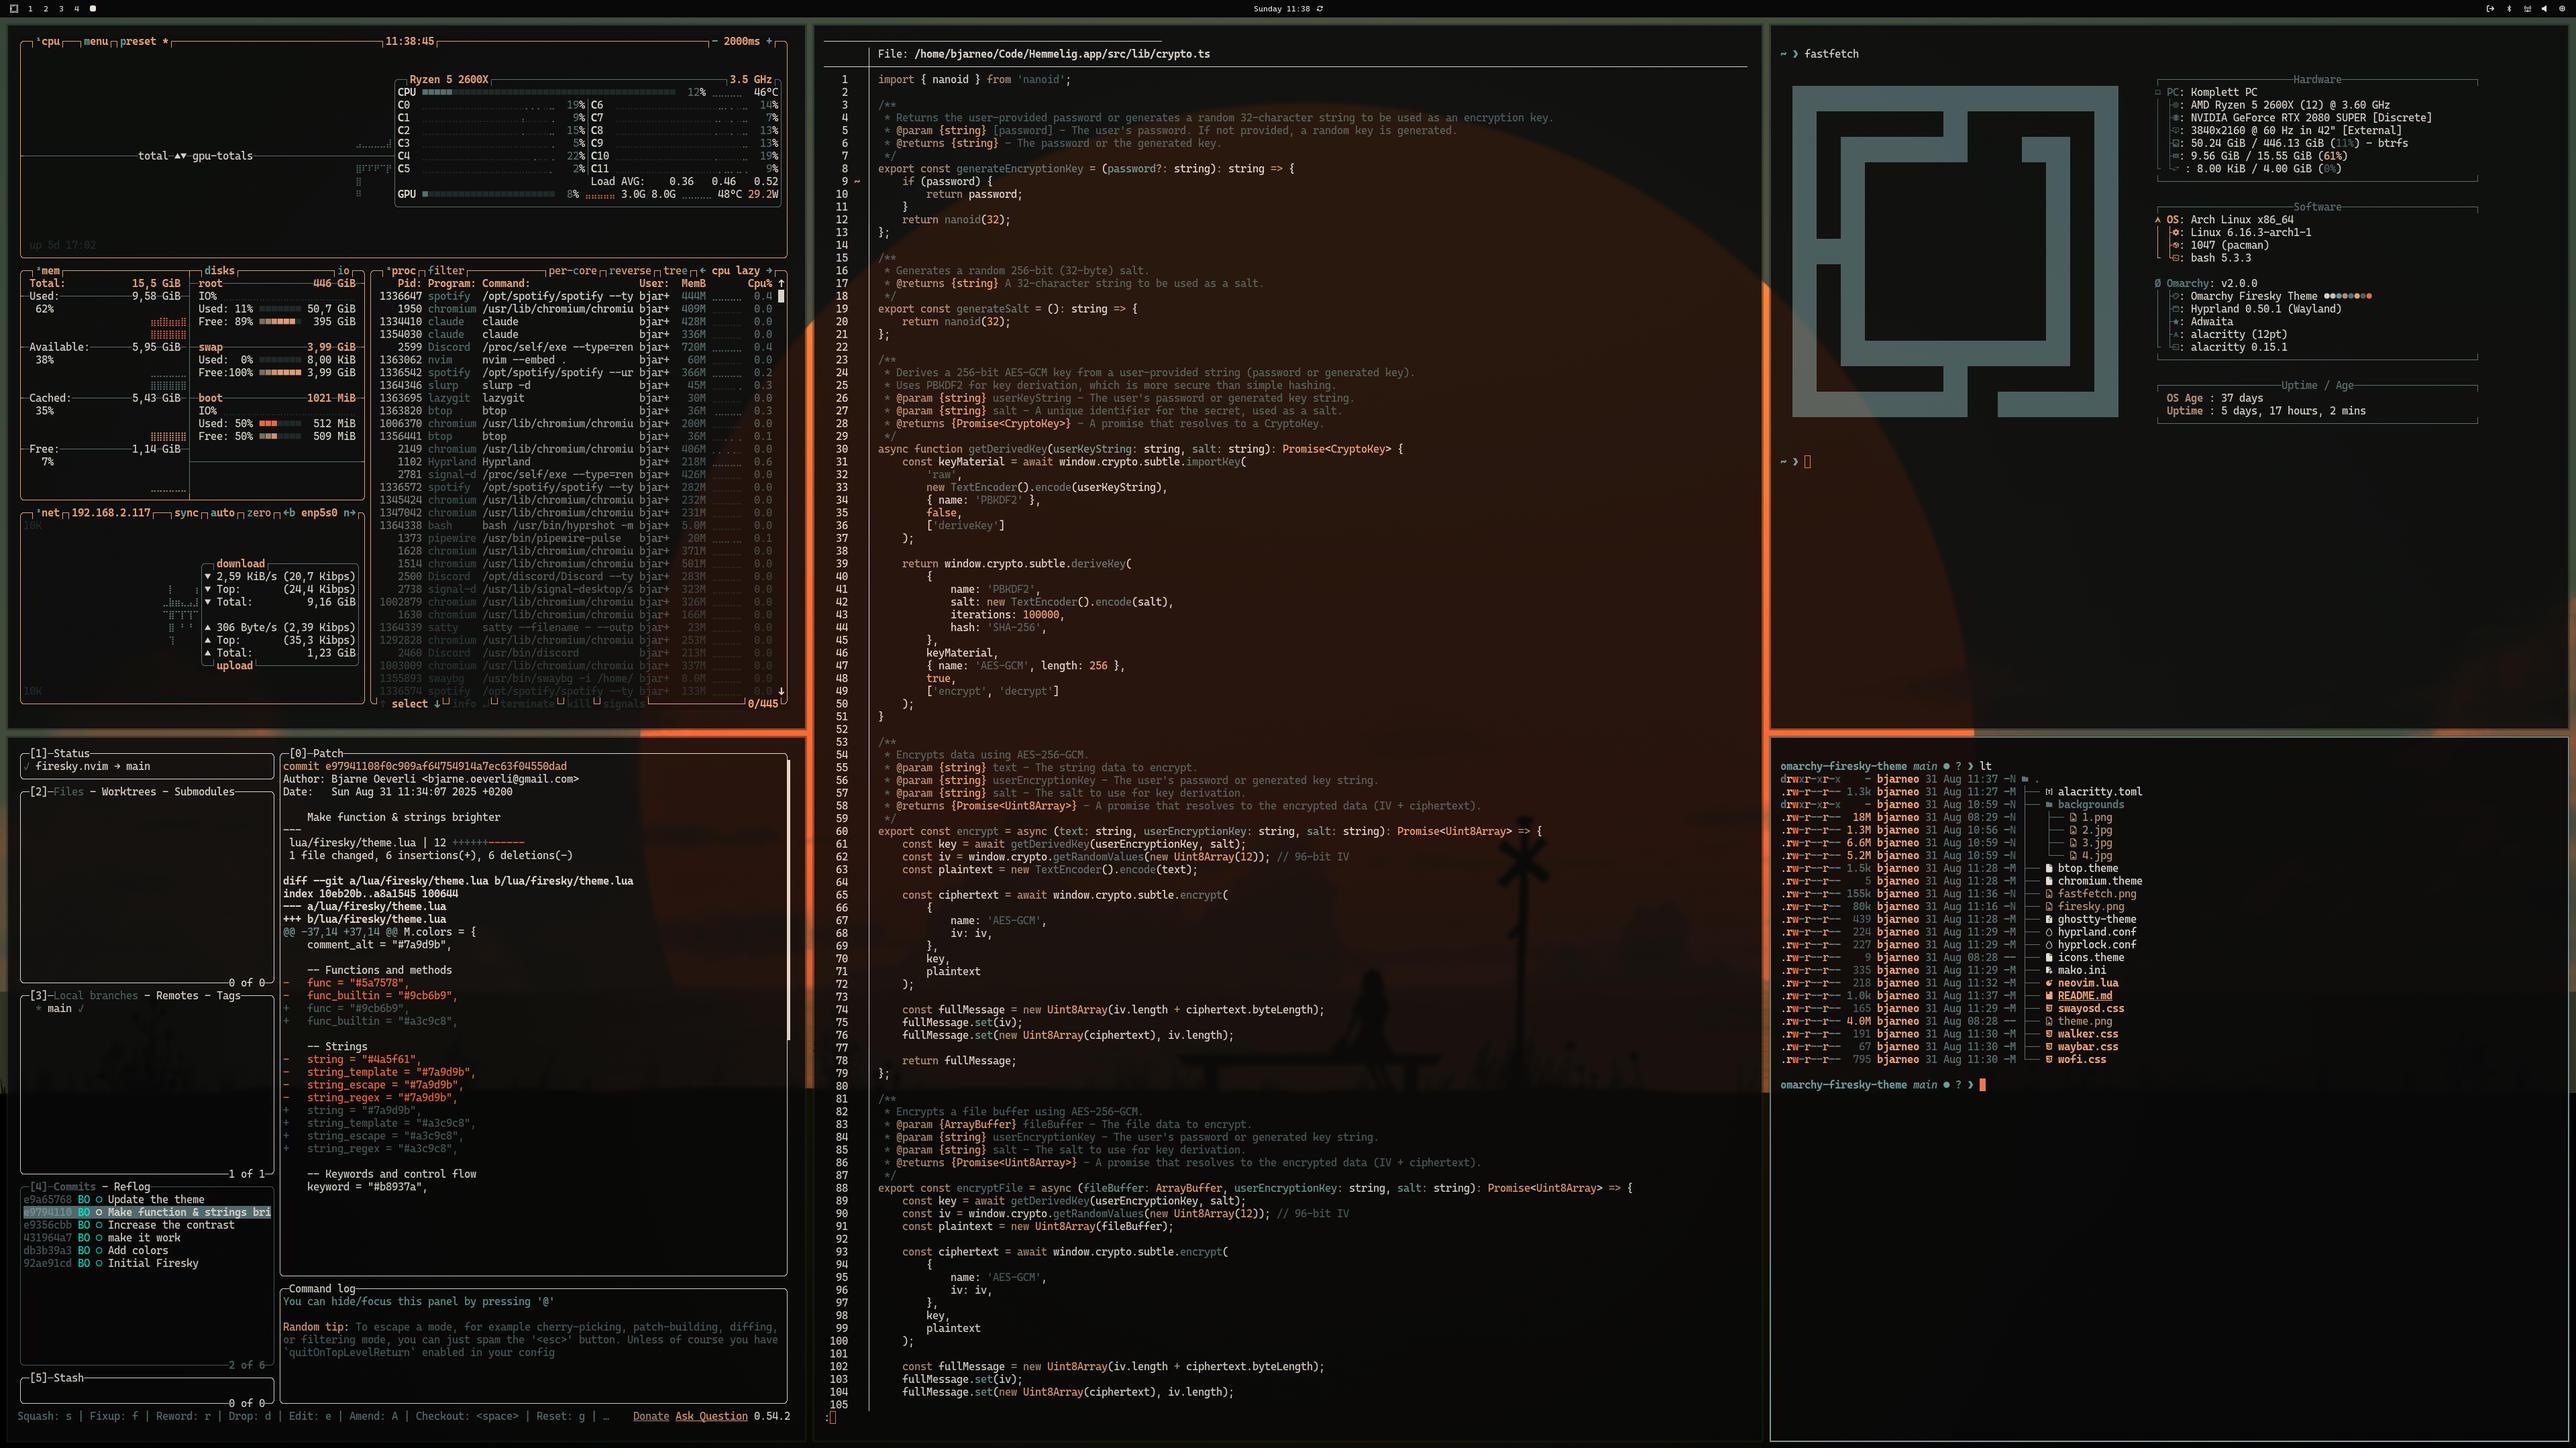
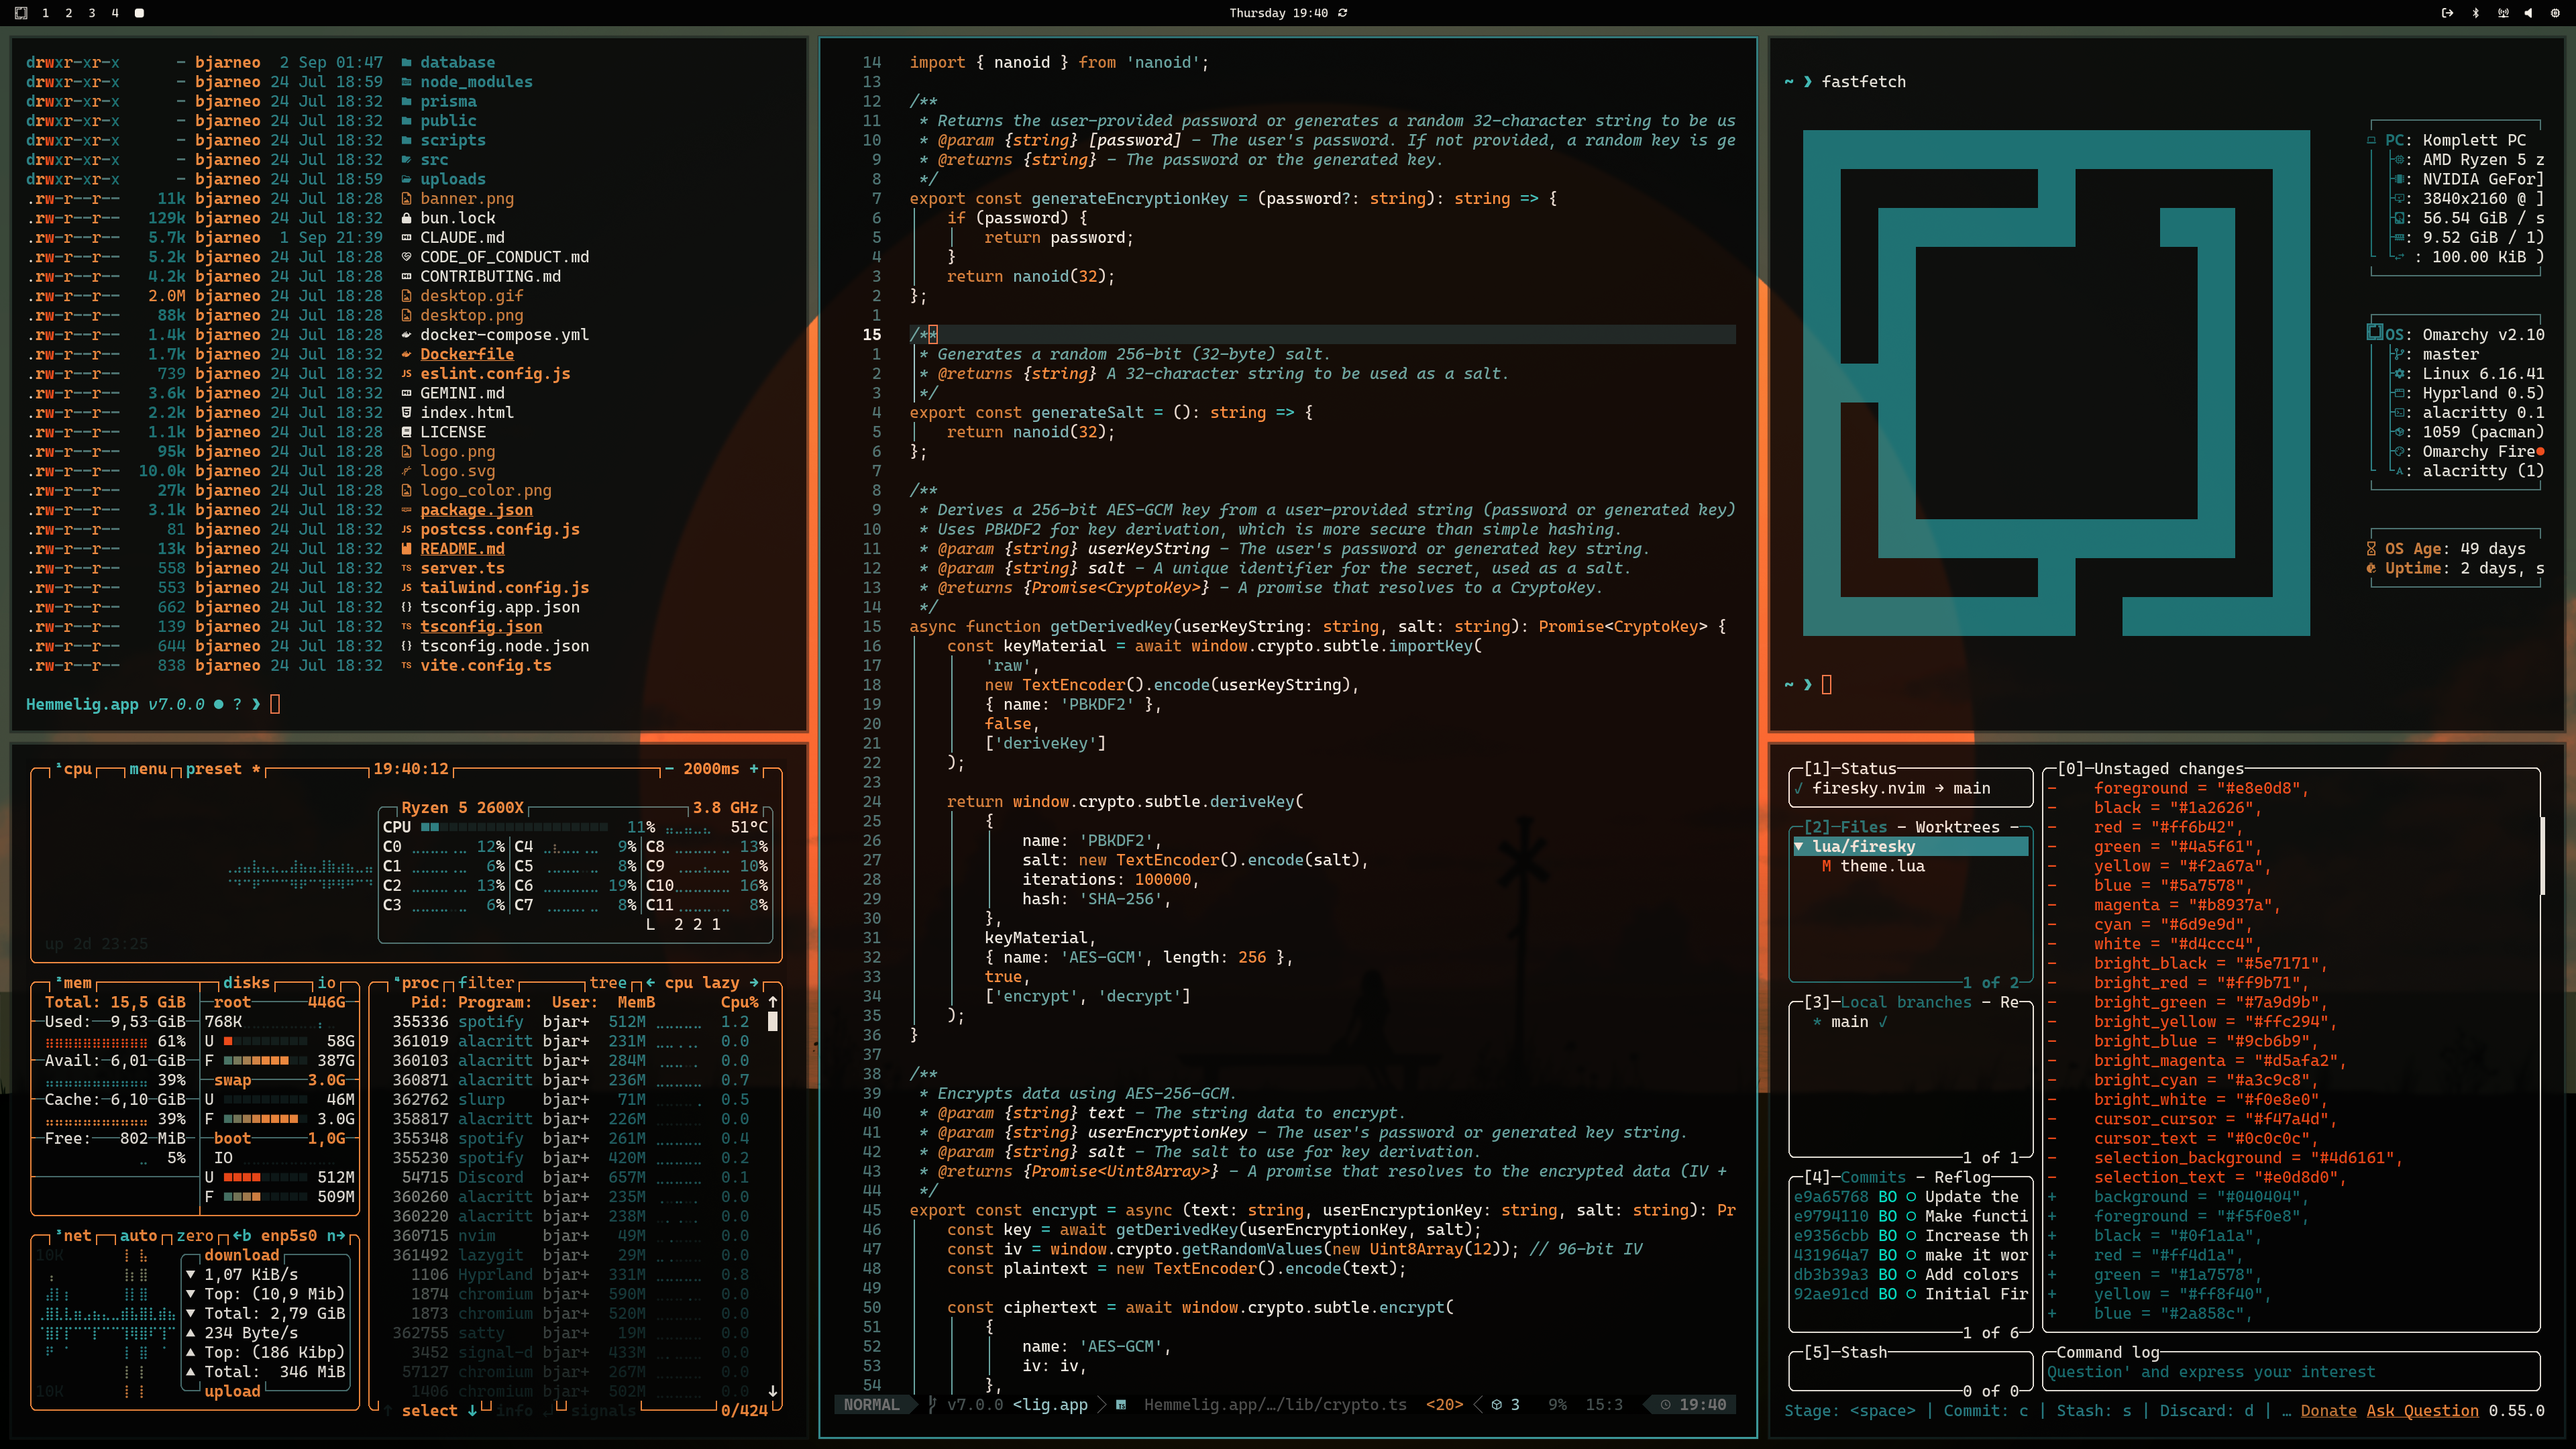
Use stronger contrast

Changed region(s): [[0.0, 0.0, 1.0, 1.0], [0.625, 0.962, 0.6875, 0.9931]]

diff --git a/vesktop/firesky.css b/vesktop/firesky.css
@@ -74,17 +74,17 @@ body {
 
     /* text colors */
     --text-0: var(--bg-4); /* text on colored elements */
-    --text-1: #f0e8e0; /* other normally white text */
-    --text-2: #e8e0d8; /* headings and important text */
-    --text-3: #d4ccc4; /* normal text */
-    --text-4: #e0d8d0; /* icon buttons and channels */
-    --text-5: #9cb6b9; /* muted channels/chats and timestamps */
+    --text-1: #fff8f0; /* other normally white text */
+    --text-2: #f5f0e8; /* headings and important text */
+    --text-3: #e8ddd5; /* normal text */
+    --text-4: #f5f0e8; /* icon buttons and channels */
+    --text-5: #52d9dd; /* muted channels/chats and timestamps */
 
     /* background and dark colors */
-    --bg-1: #5e7171; /* dark buttons when clicked */
-    --bg-2: #4d6161; /* dark buttons */
-    --bg-3: #1a2626; /* spacing, secondary elements */
-    --bg-4: #080808; /* main background color */
+    --bg-1: #4d7575; /* dark buttons when clicked */
+    --bg-2: #4d7575; /* dark buttons */
+    --bg-3: #0f1a1a; /* spacing, secondary elements */
+    --bg-4: #040404; /* main background color */
     --hover: oklch(54% 0 0 / 0.1); /* channels and buttons when hovered */
     --active: oklch(54% 0 0 / 0.2); /* channels and buttons when clicked or selected */
     --active-2: oklch(54% 0 0 / 0.3); /* extra state for transparent buttons */
@@ -116,39 +116,39 @@ body {
     --button-border: var(--green-2); /* neutral border color of buttons */
 
     /* firesky colors from alacritty.toml */
-    --black: #1a2626;
-    --red-1: #ff9b71;
-    --red-2: #ff6b42;
-    --red-3: #f47a4d;
-    --red-4: #ff6b42;
-    --red-5: #ff6b42;
+    --black: #0f1a1a;
+    --red-1: #ff7540;
+    --red-2: #ff4d1a;
+    --red-3: #ff4d1a;
+    --red-4: #ff4d1a;
+    --red-5: #ff4d1a;
 
-    --green-1: #7a9d9b;
-    --green-2: #4a5f61;
-    --green-3: #4a5f61;
-    --green-4: #4a5f61;
-    --green-5: #4a5f61;
+    --green-1: #40d4d0;
+    --green-2: #1a7578;
+    --green-3: #1a7578;
+    --green-4: #1a7578;
+    --green-5: #1a7578;
 
-    --blue-1: #9cb6b9;
-    --blue-2: #5a7578;
-    --blue-3: #5a7578;
-    --blue-4: #5a7578;
-    --blue-5: #5a7578;
+    --blue-1: #52d9dd;
+    --blue-2: #2a858c;
+    --blue-3: #2a858c;
+    --blue-4: #2a858c;
+    --blue-5: #2a858c;
 
-    --yellow-1: #ffc294;
-    --yellow-2: #f2a67a;
-    --yellow-3: #f2a67a;
-    --yellow-4: #f2a67a;
-    --yellow-5: #f2a67a;
+    --yellow-1: #ffad52;
+    --yellow-2: #ff8f40;
+    --yellow-3: #ff8f40;
+    --yellow-4: #ff8f40;
+    --yellow-5: #ff8f40;
 
-    --purple-1: #d5afa2;
-    --purple-2: #b8937a;
-    --purple-3: #b8937a;
-    --purple-4: #b8937a;
-    --purple-5: #b8937a;
+    --purple-1: #ffc275;
+    --purple-2: #d4803d;
+    --purple-3: #d4803d;
+    --purple-4: #d4803d;
+    --purple-5: #d4803d;
 
-    --cyan-1: #a3c9c8;
-    --cyan-2: #6d9e9d;
+    --cyan-1: #70f0ed;
+    --cyan-2: #40c4c0;
 }
 
 

diff --git a/wofi.css b/wofi.css
@@ -1,11 +1,11 @@
-@define-color bg #080808;
-@define-color fg #e8e0d8;
-@define-color gray1 #9cb6b9;
-@define-color gray2 #9cb6b9;
-@define-color gray3 #9cb6b9;
-@define-color gray4 #6d9e9d;
-@define-color gray5 #6d9e9d;
-@define-color fg_bright #f0e8e0;
+@define-color bg #040404;
+@define-color fg #f5f0e8;
+@define-color gray1 #52d9dd;
+@define-color gray2 #52d9dd;
+@define-color gray3 #52d9dd;
+@define-color gray4 #40c4c0;
+@define-color gray5 #40c4c0;
+@define-color fg_bright #fff8f0;
 
 window {
     background-color: @bg;

diff --git a/walker.css b/walker.css
@@ -1,6 +1,6 @@
-@define-color selected-text #ff6b42;
-@define-color text #e8e0d8;
-@define-color base #080808;
-@define-color border #5a7578;
-@define-color foreground #e8e0d8;
-@define-color background #080808;
+@define-color selected-text #ff4d1a;
+@define-color text #f5f0e8;
+@define-color base #040404;
+@define-color border #2a858c;
+@define-color foreground #f5f0e8;
+@define-color background #040404;

diff --git a/swayosd.css b/swayosd.css
@@ -1,5 +1,5 @@
-@define-color background-color #080808;
-@define-color border-color #9cb6b9;
-@define-color label #e8e0d8;
-@define-color image #e8e0d8;
-@define-color progress #6d9e9d;
+@define-color background-color #040404;
+@define-color border-color #52d9dd;
+@define-color label #f5f0e8;
+@define-color image #f5f0e8;
+@define-color progress #40c4c0;

diff --git a/waybar.css b/waybar.css
@@ -1,2 +1,2 @@
-@define-color foreground #e8e0d8;
-@define-color background #080808;
+@define-color foreground #f5f0e8;
+@define-color background #040404;
